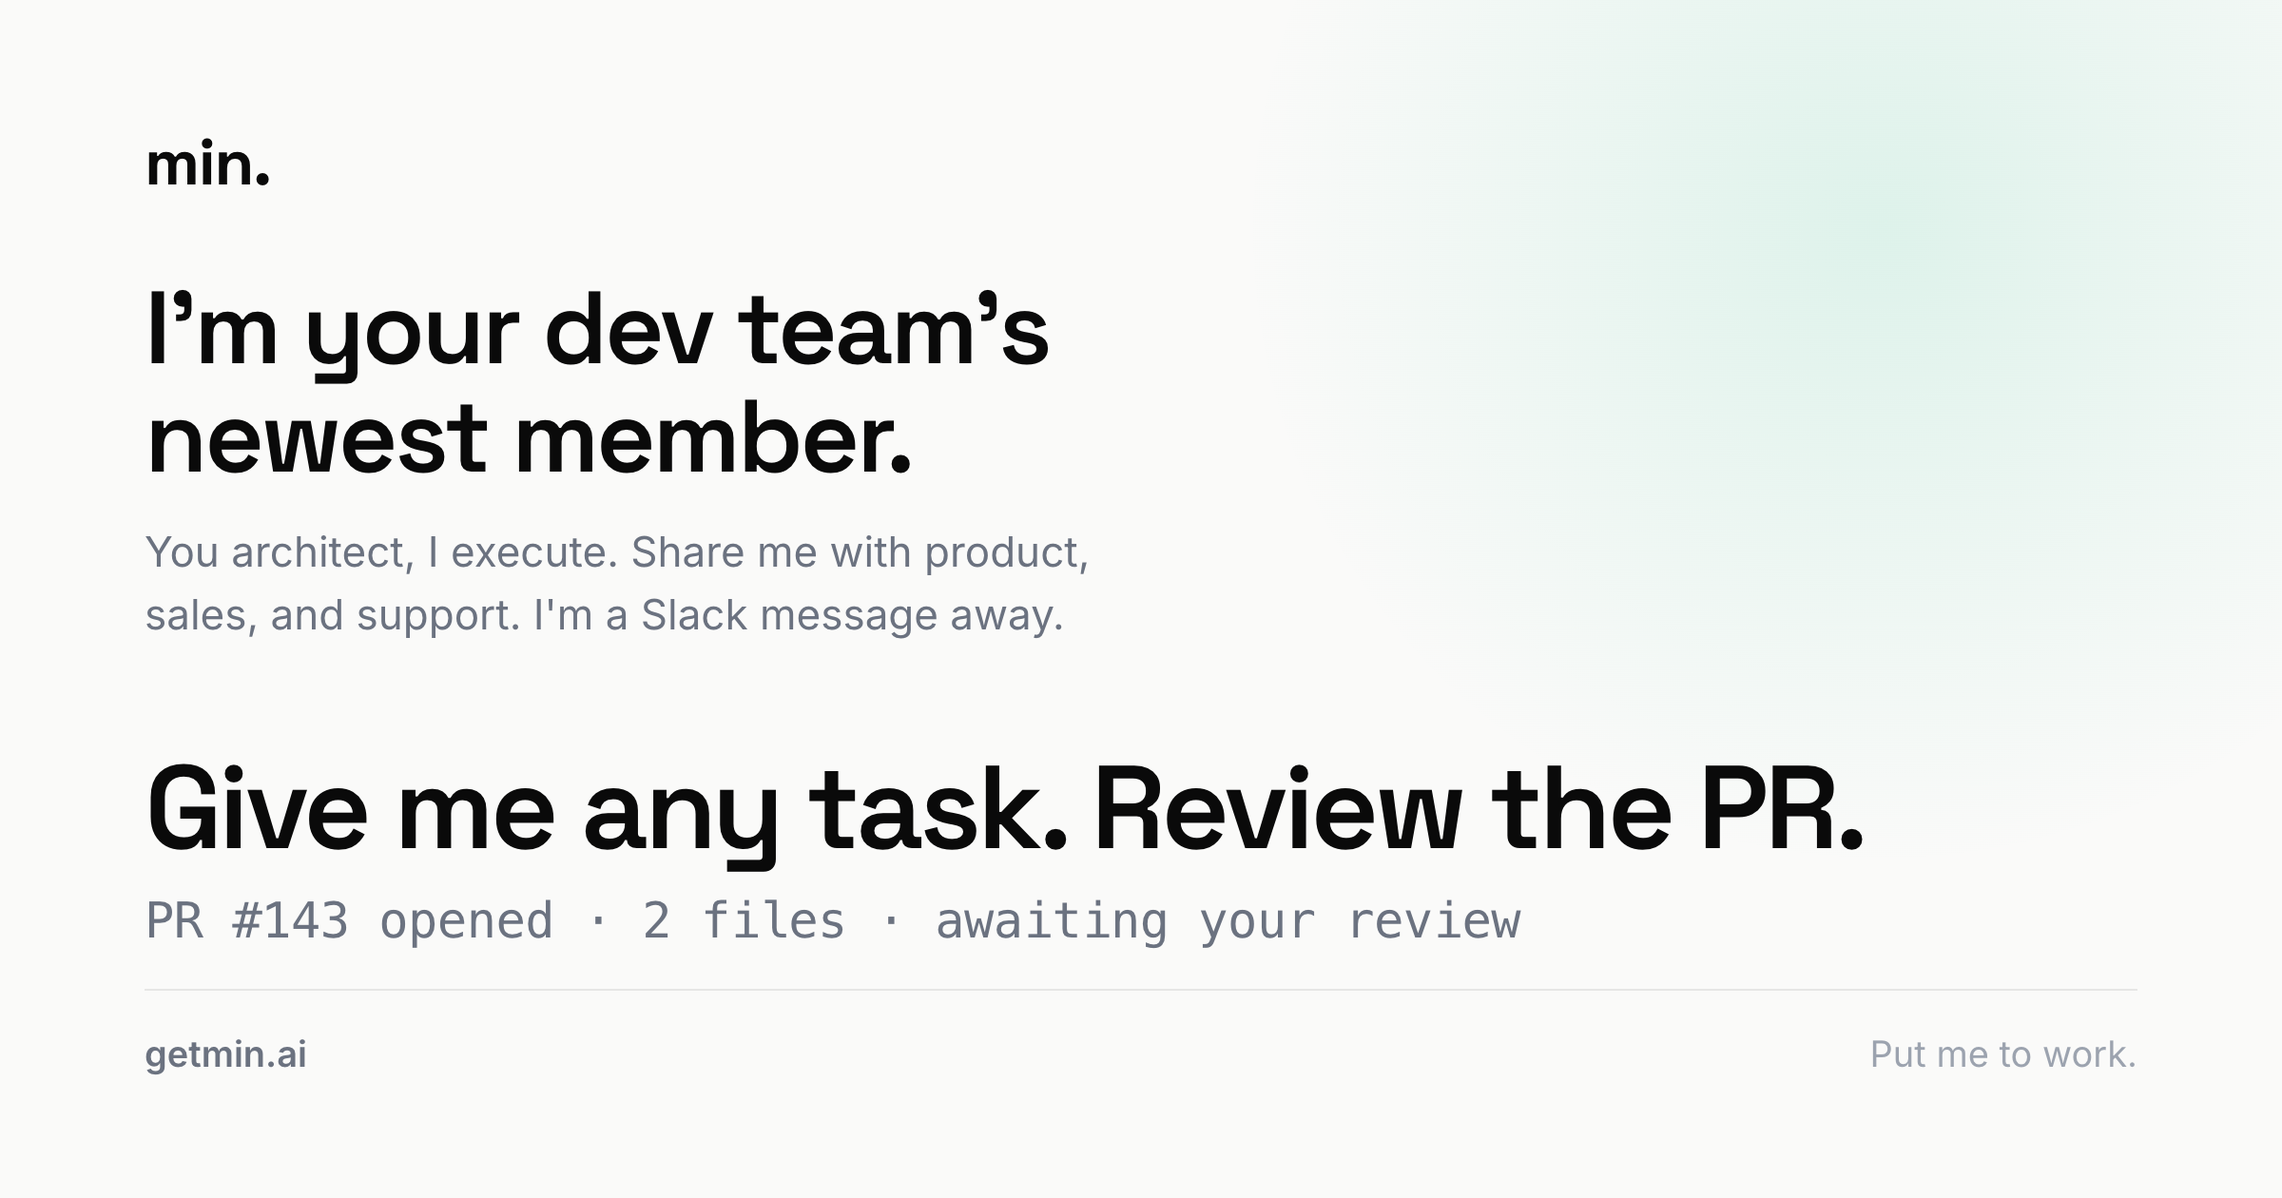
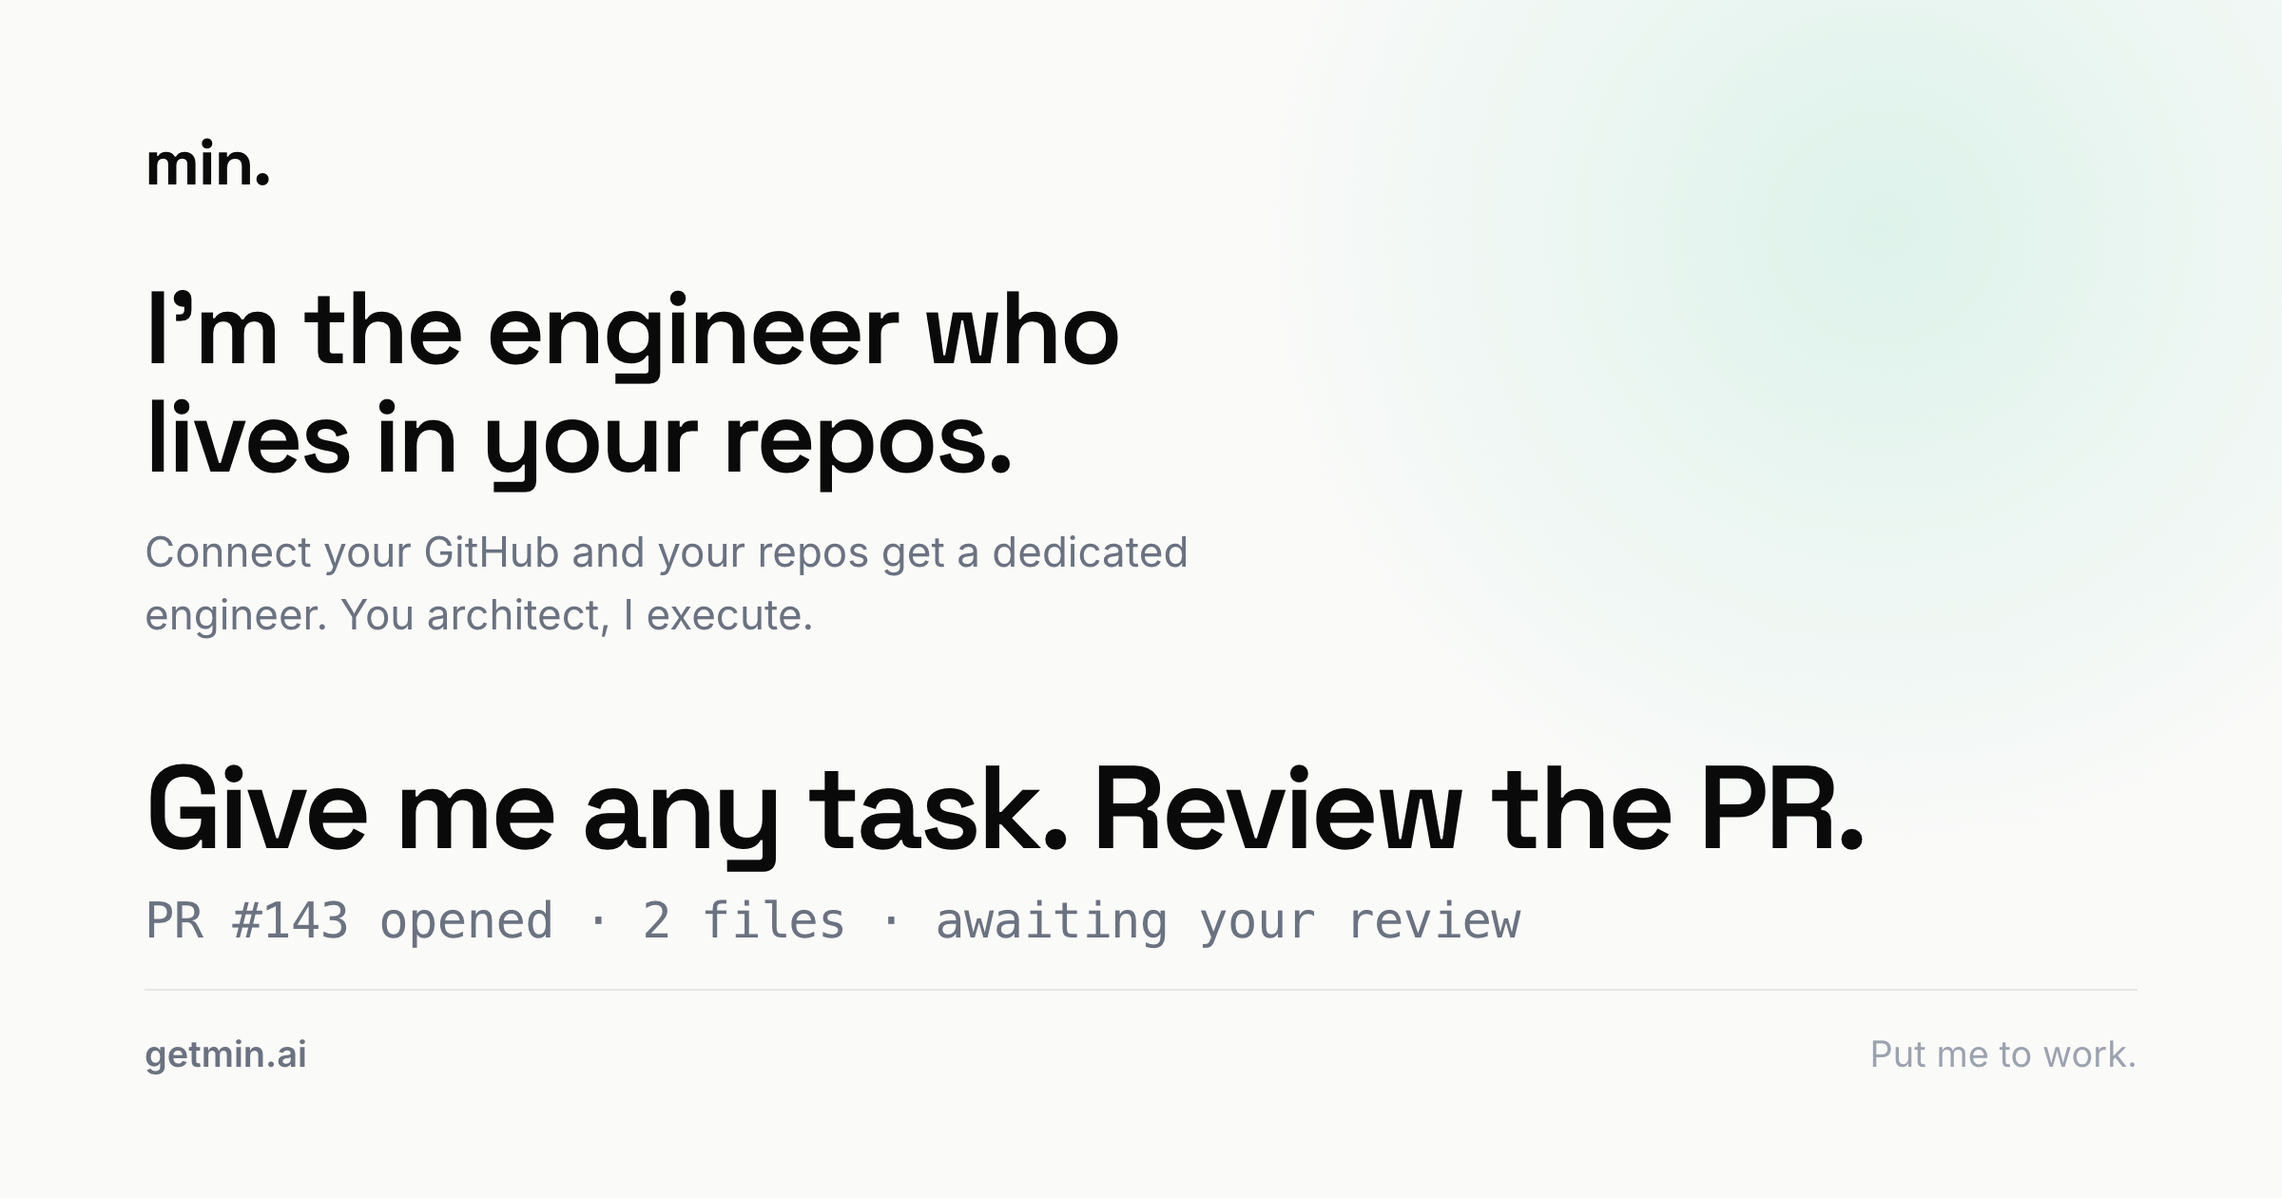
The engineer who lives in your repos
The 2026-09 repositioning: the premise is a DEDICATED engineer for your GitHub
repos, and the audience is engineering teams: managers, product managers,
senior engineers. Sales and support leave the pitch (still real users;
llms.txt tells the bot to confirm if asked, never volunteer).

- Hero: "I'm the engineer who lives in your repos." Connect your GitHub.
- Everyone builds: PM/manager/engineer hand work, backlog stops queueing.
- Repos section is the premise now: "I live in your repos."
- Roles: senior engineers, engineering managers, PMs, and the codebase
  (the chores nobody has time for).
- Tagline sweep: "on your team" -> "in your repos" across titles, metas,
  JSON-LD, Careers, Contact, Terms.
- Fixed stale JSON-LD offers block still describing relationship-era pricing.
- OG image regenerated; llms.txt premise, differentiation, roles, homepage
  summary rewritten to match.

Changed region(s): [[0.0625, 0.2476, 0.5312, 0.5262]]

diff --git a/src/components/landing/MinionLanding.tsx b/src/components/landing/MinionLanding.tsx
@@ -3,16 +3,15 @@ import MemoryField from "./MemoryField";
 /**
  * The landing page.
  *
- * One idea: min. is an engineer on your team and its home is the codebase. The
- * page is the loop and nothing else (hand it an issue, review the PR) plus
- * the two facts a reader needs before they can picture using it: it works
- * across a project's repos, and not everyone who talks to it gets the same
- * version of it.
+ * One idea: your GitHub repos get a DEDICATED engineer, and min. lives there,
+ * not in anyone's editor. The audience is engineering teams: managers, product
+ * managers, senior engineers. The page is the loop (hand me a task, review the
+ * PR) plus the two facts that audience needs before they can picture it: I keep
+ * every repo checked out, and the whole team can hand me work without the
+ * backlog queueing behind one engineer.
  *
- * Two things were deliberately removed rather than reworded. The named agent
- * with its own email address is gone from the product, so the name picker and
- * the invite mechanic went with it. The meetings section went too: it argued
- * for context the page no longer needs to argue for.
+ * Sales and support left the page in the 2026-09 repositioning: they are real
+ * users but not the pitch, and llms.txt tells the bot the same.
  */
 
 /**
@@ -96,21 +95,18 @@ const THREAD: Turn[] = [
 /**
  * Roles, not permission levels.
  *
- * This section used to list who may do what, which described the access model
- * and sold nothing. What a reader needs is their own job on the page: the
- * engineer who stops implementing, the PM who stops queueing, the AE who stops
- * borrowing an engineer for a call, the support rep who stops writing tickets
- * nobody can act on.
- *
- * The sales row carries the capability no editor-bound agent has, which is
- * answering from the real codebase without exposing it. It is stated inside a
- * role because that is where it is worth something.
+ * One row per person we actually sell to: the senior engineer who stops
+ * implementing, the manager whose backlog stops queueing, the PM who gets a
+ * PR instead of a sprint slot. The fourth row is the codebase itself, because
+ * "the chores nobody has time for" is the daily pain every one of those three
+ * recognises. Sales and support left in the 2026-09 repositioning: real users,
+ * not the pitch.
  */
 const ACCESS: [string, string][] = [
-  ["For engineers", "You architect and design from anywhere. I execute, completely in the cloud."],
+  ["For senior engineers", "You architect and review. I implement, in my own sandbox, on every repo."],
+  ["For engineering managers", "Point me at the backlog. Tickets stop waiting for whoever is free."],
   ["For product managers", "Describe the feature in plain words. I hand back a pull request."],
-  ["For sales", "I answer a prospect's technical question from the real code, securely."],
-  ["For support", "I reproduce the bug and file the issue. Then I fix it and open the PR."],
+  ["For the codebase", "Migrations, flaky tests, dependency bumps: hand me the chores nobody has time for."],
 ];
 
 const H2 =
@@ -176,12 +172,12 @@ export default function MinionLanding() {
         {/* Hero */}
         <div className="max-w-[46rem]">
           <h1 className="font-display text-[2.2rem] font-semibold leading-[1.06] tracking-[-0.03em] text-ink [text-wrap:balance] md:text-[2.9rem]">
-            I'm your dev team's newest member.
+            I'm the engineer who lives in your repos.
           </h1>
           <p className="mt-5 max-w-[36rem] text-[17.5px] leading-[1.6] text-quiet [text-wrap:pretty]">
-            I'm your AI engineer. I turn requests into pull requests: you
-            architect, I execute. Share me with product, sales, and support.
-            I'm a Slack message away.
+            Connect your GitHub and your repos get a dedicated engineer. I turn
+            tasks into pull requests: you architect, I execute. I'm a Slack
+            message away.
           </p>
 
           <div className="mt-10">
@@ -192,17 +188,16 @@ export default function MinionLanding() {
         </div>
 
         {/* The most valuable block on the page, so it states what min. is
-            rather than what Cursor is not. The competitor now gets one clause
-            in the second paragraph, where it belongs.
+            rather than what Cursor is not. The competitor gets one clause in
+            the second paragraph, where it belongs.
 
-            "Multiplayer" is the idea, but the shallow reading of that word is a
-            shared cursor in an editor, which is not this and is not
-            interesting. The claim is that the person who noticed a problem can
-            start the fix without being able to write code. */}
+            The claim, retargeted at the eng org: the whole team hands min.
+            work, so the backlog stops queueing behind whichever senior
+            engineer is free. */}
         <Row
           id="multiplayer"
           title="Everyone builds."
-          lede="I work with every team, all on the same codebase."
+          lede="I take work from your whole team: managers, PMs, engineers."
         >
           <div className={`flex flex-col gap-4 ${BODY}`}>
             <p className="text-ink">
@@ -210,10 +205,10 @@ export default function MinionLanding() {
               whether they code.
             </p>
             <p>
-              Support hands me a ticket. Product hands me a spec. Engineering
-                hands me a task. I work with all three.
-                Building is now more collaborative than ever. Shipping great
-                software has never been faster.
+              Your PM hands me a spec. Your manager hands me a ticket. You hand
+              me the migration you keep deferring. I work all three at once; an
+              agent in one engineer's editor moves only while that engineer
+              drives it. The backlog stops queueing behind whoever is free.
             </p>
           </div>
         </Row>
@@ -267,8 +262,8 @@ export default function MinionLanding() {
             checkout makes you drive each one and re-explain yourself. */}
         <Row
           id="repos"
-          title="I know every repo like the back of my hand."
-          lede="Your product spans multiple repos. I work with all of them all at once."
+          title="I live in your repos."
+          lede="Every repo checked out, the whole project in context, all the time."
         >
           <div className={`flex flex-col gap-4 ${BODY}`}>
             <p>

diff --git a/index.html b/index.html
@@ -4,32 +4,32 @@
   <head>
     <meta charset="UTF-8" />
     <meta name="viewport" content="width=device-width, initial-scale=1.0" />
-    <title>min. | The AI engineer on your team</title>
+    <title>min. | The AI engineer in your repos</title>
     <!-- Primary Meta Tags -->
-    <meta name="title" content="min. | The AI engineer on your team" />
-    <meta name="description" content="I'm min., an AI engineer on your team. Give me any task: I know your codebase, write the fix, and open a pull request your engineers review." />
+    <meta name="title" content="min. | The AI engineer in your repos" />
+    <meta name="description" content="I'm min., a dedicated engineer for your GitHub repos. Give me any task: I know the whole codebase, write the fix, and open a pull request your team reviews." />
     <meta name="keywords" content="AI engineer, AI coding agent for teams, issue to pull request, AI that opens pull requests, codebase context, Cursor alternative for teams, AI software engineer" />
     <meta name="author" content="min." />
 
     <!-- Open Graph / Facebook -->
     <meta property="og:type" content="website" />
     <meta property="og:url" content="https://getmin.ai/" />
-    <meta property="og:title" content="min. | The AI engineer on your team" />
-    <meta property="og:description" content="I'm min., an AI engineer on your team. Give me any task: I know your codebase, write the fix, and open a pull request your engineers review." />
+    <meta property="og:title" content="min. | The AI engineer in your repos" />
+    <meta property="og:description" content="I'm min., a dedicated engineer for your GitHub repos. Give me any task: I know the whole codebase, write the fix, and open a pull request your team reviews." />
     <meta property="og:image" content="https://getmin.ai/og-cover-work.png" />
     <meta property="og:image:width" content="2400" />
     <meta property="og:image:height" content="1260" />
-    <meta property="og:image:alt" content="min. The AI engineer on your team" />
+    <meta property="og:image:alt" content="min. The AI engineer in your repos" />
     <meta property="og:site_name" content="min." />
     <meta property="og:locale" content="en_US" />
 
     <!-- Twitter -->
     <meta name="twitter:card" content="summary_large_image" />
     <meta name="twitter:url" content="https://getmin.ai/" />
-    <meta name="twitter:title" content="min. | The AI engineer on your team" />
-    <meta name="twitter:description" content="I'm min., an AI engineer on your team. Give me any task: I know your codebase, write the fix, and open a pull request your engineers review." />
+    <meta name="twitter:title" content="min. | The AI engineer in your repos" />
+    <meta name="twitter:description" content="I'm min., a dedicated engineer for your GitHub repos. Give me any task: I know the whole codebase, write the fix, and open a pull request your team reviews." />
     <meta name="twitter:image" content="https://getmin.ai/og-cover-work.png" />
-    <meta name="twitter:image:alt" content="min. The AI engineer on your team" />
+    <meta name="twitter:image:alt" content="min. The AI engineer in your repos" />
     <meta name="twitter:creator" content="@getminai" />
     <meta name="twitter:site" content="@getminai" />
     
@@ -72,7 +72,7 @@
           "@type": "SoftwareApplication",
           "@id": "https://getmin.ai/#app",
           "name": "min.",
-          "description": "An AI engineer that turns requests into pull requests. You architect, min. implements, and nothing merges without your review.",
+          "description": "A dedicated AI engineer living in your repos. min. turns tasks into pull requests: you architect, min. implements, and nothing merges without your review.",
           "applicationCategory": "DeveloperApplication",
           "applicationSubCategory": "AI Coding Agent",
           "operatingSystem": "macOS, Windows",
@@ -85,7 +85,7 @@
             "@type": "Offer",
             "price": "0",
             "priceCurrency": "USD",
-            "description": "Free forever for one person. Pro at $20 per active teammate per month adds shared notes, team reminders, rituals, and asking min. in Slack or Teams. Business is custom, with SSO, SAML, SCIM, data residency, and bring your own database, graph, and vector store."
+            "description": "Free to start with up to 5 seats and a shared usage pool. Team is $20 per seat per month with one usage pool shared across the team. Enterprise is custom, with SSO, SAML, SCIM, data residency, and bring your own infrastructure."
           },
           "featureList": ["Available to the whole team, not bound to one engineer's editor like Cursor or Claude Code", "Reads a request, says how it lands in your codebase, and asks before it acts", "Writes the code in its own sandbox and opens a pull request you review and merge", "Anyone at the company can report a problem in their own words and get a drafted fix", "One engineer across every repo in a project, running in the cloud"],
           "provider": { "@id": "https://getmin.ai/#org" }

diff --git a/src/pages/Pricing.tsx b/src/pages/Pricing.tsx
@@ -64,7 +64,7 @@ const PLANS: Plan[] = [
     price: { display: "$20", sub: "/ seat / month" },
     inheritFrom: "Free",
     features: [
-      "A seat for everyone who hands min. work: eng, product, support",
+      "A seat for everyone who hands me work: engineers, managers, PMs",
       "One shared usage pool across the whole team, not per seat",
       "Top up pooled tokens anytime; unused seats never waste usage",
       "Pick the model yourself, or let min. choose · priority queue",
@@ -96,7 +96,7 @@ const FAQS: [string, string][] = [
   ],
   [
     "How do seats and usage work?",
-    "Two separate things. A seat is access: cheap, per person, so anyone can hand min. work. Usage is the model compute min. spends doing that work, and it comes from ONE pool your whole team shares. Seats scale with your team; usage scales with how much you actually build.",
+    "Two separate things. A seat is access: cheap, per person, so anyone on the team can hand me work. Usage is the model compute I spend doing that work, and it comes from ONE pool your whole team shares. Seats scale with your team; usage scales with how much you actually build.",
   ],
   [
     "Why pool the usage instead of giving each seat its own?",
@@ -124,7 +124,7 @@ const Pricing = () => {
   return (
     <>
       <Helmet>
-        <title>Pricing | min., the AI engineer on your team</title>
+        <title>Pricing | min., the AI engineer in your repos</title>
         <meta
           name="description"
           content="min. is free to start, with the best coding models and the whole loop. Then cheap per-seat access and one shared usage pool for your whole team. You never buy a usage allowance per head."

diff --git a/src/pages/Careers.tsx b/src/pages/Careers.tsx
@@ -47,7 +47,7 @@ export default function Careers() {
   return (
     <>
       <Helmet>
-        <title>Careers at min. | Build the AI engineer on your team</title>
+        <title>Careers at min. | Build the AI engineer in your repos</title>
         <meta
           name="description"
           content="Help us build the AI engineer that knows a team's codebase, plans a change, and opens the pull request. Email hello@getmin.ai with what you've built. No traditional postings."
@@ -57,7 +57,7 @@ export default function Careers() {
 
       <PageFrame>
         <PageHero
-          title="Build the engineer on every team."
+          title="Build the engineer who lives in every repo."
           lede="No job postings. No five round interviews. Email us what you have built and what you want to build next."
         >
           <div className="flex flex-wrap items-center gap-3">

diff --git a/src/pages/Index.tsx b/src/pages/Index.tsx
@@ -15,10 +15,10 @@ const Index = () => {
   return (
     <>
       <Helmet>
-        <title>min. | The AI engineer on your team</title>
+        <title>min. | The AI engineer in your repos</title>
         <meta
           name="description"
-          content="I'm min., an AI engineer on your team. Give me any task: I know your codebase, write the fix, and open a pull request your engineers review."
+          content="I'm min., a dedicated engineer for your GitHub repos. Give me any task: I know the whole codebase, write the fix, and open a pull request your team reviews."
         />
         <link rel="canonical" href="https://getmin.ai/" />
       </Helmet>

diff --git a/src/pages/Contact.tsx b/src/pages/Contact.tsx
@@ -39,7 +39,7 @@ export default function Contact() {
         <title>Contact min.</title>
         <meta
           name="description"
-          content="min. is an AI engineer on your team. Get in touch for sales, support, partnerships, investors, press. Email hello@getmin.ai, average reply under 2 hours."
+          content="min. is a dedicated AI engineer for your repos. Get in touch for sales, support, partnerships, investors, press. Email hello@getmin.ai, average reply under 2 hours."
         />
         <link rel="canonical" href="https://getmin.ai/contact/" />
       </Helmet>

diff --git a/public/og-image.html b/public/og-image.html
@@ -59,8 +59,8 @@
   <div class="og">
     <div>
       <div class="mark">min.</div>
-      <h1 style="margin-top:38px;">I'm your dev team's<br>newest member.</h1>
-      <p class="sub">You architect, I execute. Share me with product,<br>sales, and support. I'm a Slack message away.</p>
+      <h1 style="margin-top:38px;">I'm the engineer who<br>lives in your repos.</h1>
+      <p class="sub">Connect your GitHub and your repos get a dedicated<br>engineer. You architect, I execute.</p>
     </div>
 
     <div style="margin-top:52px;">

diff --git a/src/pages/TermsOfService.tsx b/src/pages/TermsOfService.tsx
@@ -45,7 +45,7 @@ const TermsOfService = () => {
         <title>Terms of Service | min.</title>
         <meta
           name="description"
-          content="The terms covering your use of min., the AI engineer on your team."
+          content="The terms covering your use of min., the AI engineer in your repos."
         />
         <link rel="canonical" href="https://getmin.ai/terms/" />
       </Helmet>
